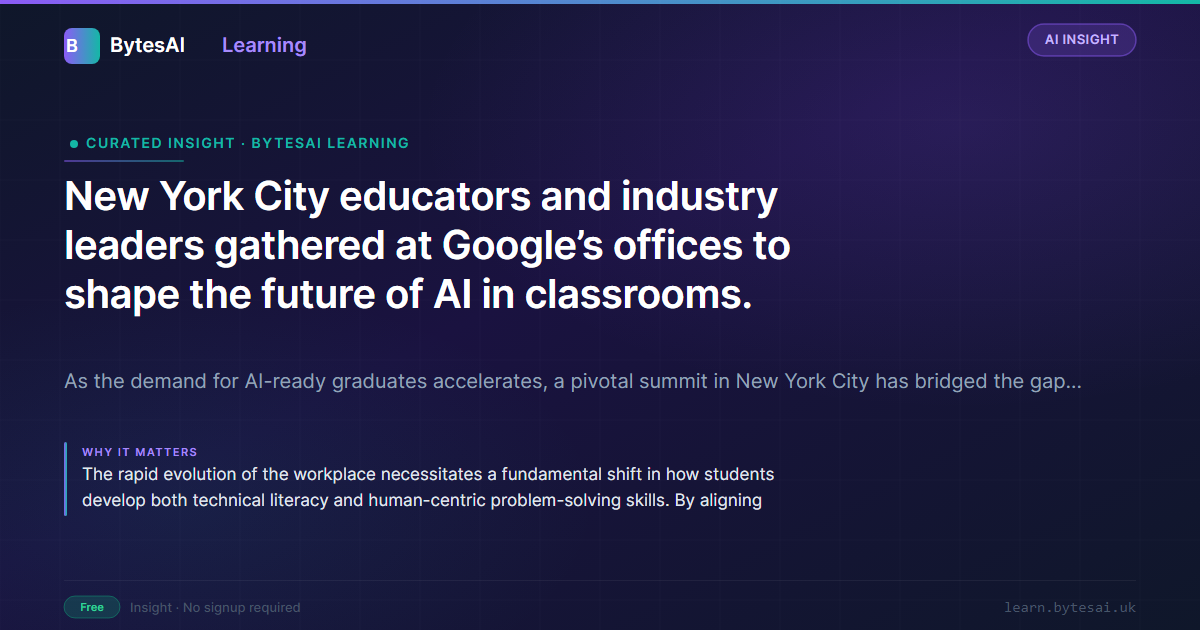
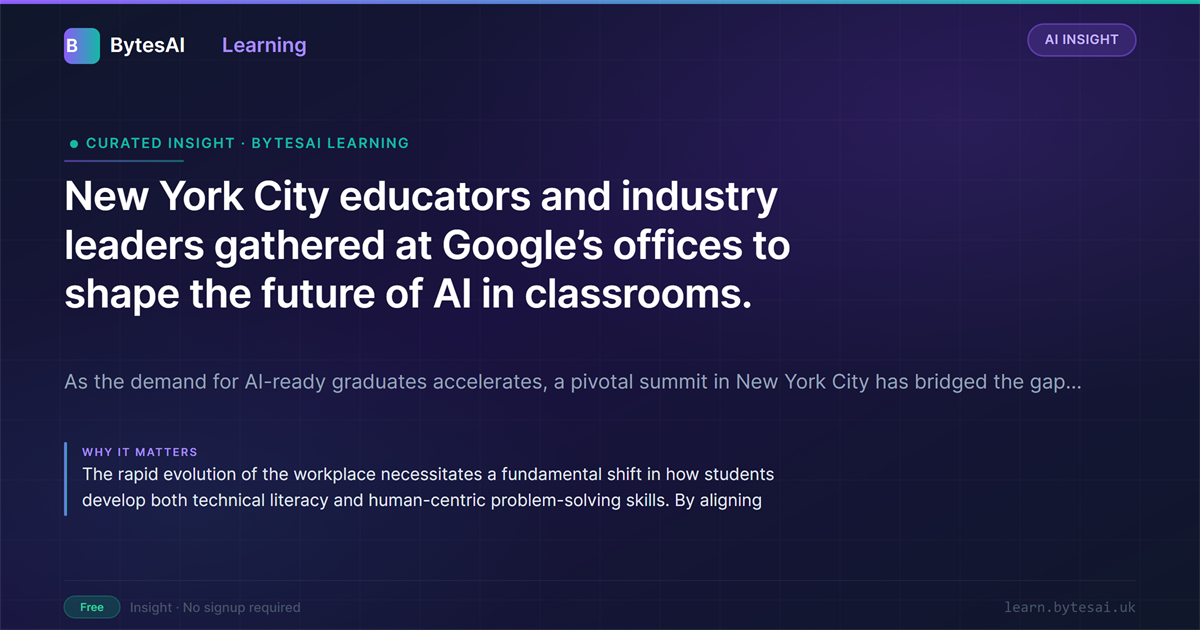
Sharpen static social image asset

diff --git a/tests/social-og-image.test.ts b/tests/social-og-image.test.ts
@@ -13,7 +13,7 @@ test('article social image URLs are crawler-friendly PNG paths with render cache
 
   assert.equal(
     url,
-    'https://learn.bytesai.uk/api/og/article/test-insight/20260705T111616007Zr6.png',
+    'https://learn.bytesai.uk/api/og/article/test-insight/20260705T111616007Zr7.png',
   );
   assert.doesNotMatch(url, /\?/);
   assert.match(url, /\.png$/);
@@ -22,7 +22,7 @@ test('article social image URLs are crawler-friendly PNG paths with render cache
 test('course social image URLs use the current render version', () => {
   assert.equal(
     courseSocialImageUrl('test-course'),
-    'https://learn.bytesai.uk/api/og/course/test-course/cardr6.png',
+    'https://learn.bytesai.uk/api/og/course/test-course/cardr7.png',
   );
 });
 
@@ -64,6 +64,7 @@ test('versioned OG route redirects known static readable PNG assets before dynam
   assert.match(source, /STATIC_ARTICLE_IMAGES/);
   assert.match(source, /function staticArticleImageRedirect/);
   assert.match(source, /\/og-images\/\$\{encodeURIComponent\(slug\)\}\.png/);
+  assert.match(source, /assetUrl\.searchParams\.set\('v', version\)/);
   assert.match(source, /if \(staticImage\) return staticImage/);
   assert.match(source, /Response\.redirect/);
   assert.match(source, /return renderOgImage/);

diff --git a/src/app/api/og/[type]/[slug]/[version]/route.ts b/src/app/api/og/[type]/[slug]/[version]/route.ts
@@ -16,11 +16,12 @@ const STATIC_ARTICLE_IMAGES = new Set([
   'new-york-city-educators-and-industry-leaders-gathered-at-googles-offices-to-shap',
 ]);
 
-function staticArticleImageRedirect(request: Request, slug: string): Response | null {
+function staticArticleImageRedirect(request: Request, slug: string, version: string): Response | null {
   if (!STATIC_ARTICLE_IMAGES.has(slug)) return null;
   const assetUrl = new URL(request.url);
   assetUrl.pathname = `/og-images/${encodeURIComponent(slug)}.png`;
   assetUrl.search = '';
+  assetUrl.searchParams.set('v', version);
 
   return Response.redirect(assetUrl.toString(), 302);
 }
@@ -33,7 +34,7 @@ export async function GET(request: Request, context: OgPathContext) {
   const url = new URL(request.url);
 
   if (normalizedType === 'article') {
-    const staticImage = staticArticleImageRedirect(request, normalizedSlug);
+    const staticImage = staticArticleImageRedirect(request, normalizedSlug, normalizedVersion);
     if (staticImage) return staticImage;
   }
 

diff --git a/src/lib/social-meta.ts b/src/lib/social-meta.ts
@@ -2,7 +2,7 @@ export const SITE_URL = 'https://learn.bytesai.uk';
 
 export const SOCIAL_IMAGE_WIDTH = 1200;
 export const SOCIAL_IMAGE_HEIGHT = 630;
-const SOCIAL_IMAGE_RENDER_VERSION = 'r6';
+const SOCIAL_IMAGE_RENDER_VERSION = 'r7';
 
 export type SharePlatform = 'twitter' | 'linkedin' | 'whatsapp' | 'facebook';
 
